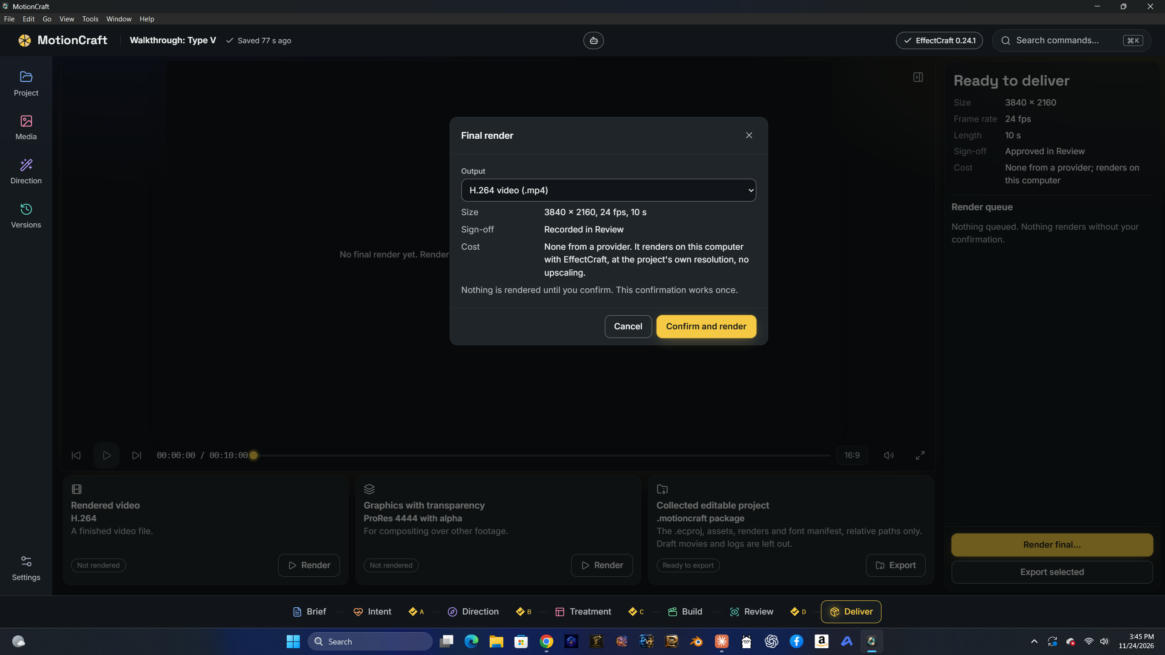
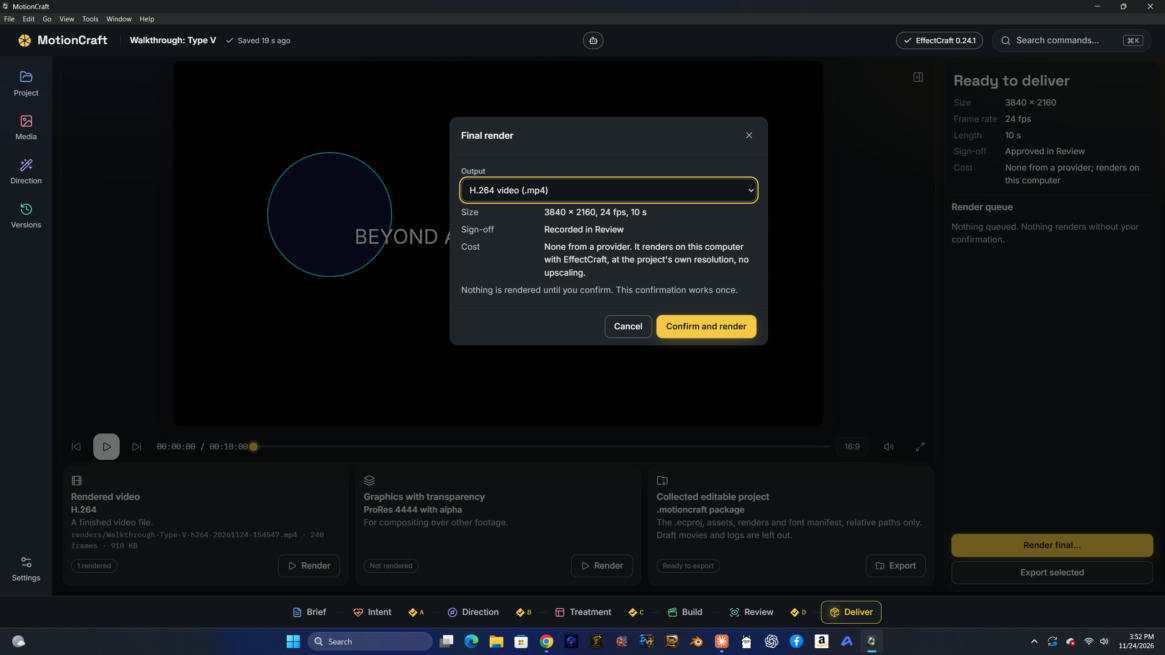
User guide: screenshots, recovery picture, docs link test

diff --git a/src/__tests__/docs.test.ts b/src/__tests__/docs.test.ts
@@ -1,0 +1,26 @@
+import { describe, expect, it } from "vitest";
+import { existsSync, readFileSync } from "node:fs";
+import { dirname, join, resolve } from "node:path";
+
+const root = resolve(__dirname, "../..");
+
+/** Every relative link and picture in these documents must point at a file that exists, so the guide cannot drift from the repository. */
+function links(file: string): { target: string; from: string }[] {
+  const text = readFileSync(join(root, file), "utf-8");
+  return [...text.matchAll(/\]\(([^)#\s]+)(?:#[^)]*)?\)/g)].map((m) => m[1]).filter((t) => !/^(https?:|mailto:)/.test(t)).map((t) => ({ target: t, from: file }));
+}
+
+describe("the documentation", () => {
+  for (const file of ["README.md", "docs/USER_GUIDE.md"]) {
+    it(`${file}: every relative link and picture exists`, () => {
+      const missing = links(file).filter((l) => !existsSync(resolve(root, dirname(l.from), l.target))).map((l) => l.target);
+      expect(missing).toEqual([]);
+    });
+  }
+
+  it("the user guide has a picture for every step and states what is not verified", () => {
+    const text = readFileSync(join(root, "docs/USER_GUIDE.md"), "utf-8");
+    expect((text.match(/!\[[^\]]*\]\(guide\/[^)]+\)/g) ?? []).length).toBeGreaterThanOrEqual(11);
+    expect(text).toMatch(/have not been run on a Mac/);
+  });
+});

diff --git a/docs/USER_GUIDE.md b/docs/USER_GUIDE.md
@@ -41,21 +41,21 @@ creates a revision, so nothing is lost.
 
 ### Step 1. Projects
 
-![The project list: each project shows a picture of the piece, its length and shape](guide/01-projects.png)
+![The project list: each project shows a picture of the piece, its length and shape](guide/01-projects.jpg)
 
 The first screen lists your projects. A card shows a picture from the piece (or a title card when it has none yet), its length and shape, and when
 it was last edited. Press **New project**.
 
 ### Step 2. New project
 
-![The New project dialog with name, aspect and size, resolution, frame rate and duration](guide/02-new-project.png)
+![The New project dialog with name, aspect and size, resolution, frame rate and duration](guide/02-new-project.jpg)
 
 Choose a name, the aspect ratio, the resolution (720p, Full HD or **UHD 4K**), the frame rate and the length. You can change size, length and frame
 rate on the Brief page until the first layer exists. Press **Enter** to create the project.
 
 ### Step 3. Brief: say what you want
 
-![The Brief page with a typed brief and the "Found in your brief" card](guide/03-brief-found.png)
+![The Brief page with a typed brief and the "Found in your brief" card](guide/03-brief-found.jpg)
 
 Write the brief, paste a script, or start with audio. If your text says "10 seconds, 16:9, 4K, 24 fps", or contains a **timed script table**, the
 **Found in your brief** card offers to use it: the length and shape, one scene per row, and the sound notes as markers on the timeline. Nothing is
@@ -71,7 +71,7 @@ Other things on this page:
 
 ### Step 4. Make it
 
-![The plan sheet: the intent, the scenes, the look, and one approval](guide/04-make-it-plan.png)
+![The plan sheet: the intent, the scenes, the look, and one approval](guide/04-make-it-plan.jpg)
 
 Press **Make it**. The Director reads your brief and drafts the intent. A look that fits what the piece is about is chosen, and every scene gets a
 plan taken from your script. You then see **one review sheet**. **Looks right, continue to Build** approves the intent, direction and treatment
@@ -81,7 +81,7 @@ together; **Edit first** takes you to the Intent page instead. A local model cos
 
 ### Step 5. Treatment: a picture for every scene
 
-![The Treatment page: a card for each scene with its picture, time and plan](guide/05-treatment.png)
+![The Treatment page: a card for each scene with its picture, time and plan](guide/05-treatment.jpg)
 
 Each scene is a card: a picture, its name and time range, and one line saying what happens. Three ways to fill a picture:
 
@@ -95,7 +95,7 @@ automatically. Words belong on text layers, where they stay editable.
 
 ### Step 6. Build: the composition
 
-![The Build page: a large preview, the scene strip and the timeline](guide/06-build.png)
+![The Build page: a large preview, the scene strip and the timeline](guide/06-build.jpg)
 
 Build is the studio. The large picture is the composition; under it, the **scene strip** and the **timeline**.
 
@@ -106,14 +106,14 @@ Build is the studio. The large picture is the composition; under it, the **scene
 3. **Click a scene** to move the playhead there. **Film strip** shows the scenes; **Edit** shows every layer as a bar you can drag to move or trim.
    Alt and the arrow keys nudge a layer. Approved layers stay put.
 
-![Edit view: every layer is a bar on the timeline, under the scene strip](guide/07-timeline-edit.png)
+![Edit view: every layer is a bar on the timeline, under the scene strip](guide/07-timeline-edit.jpg)
 
 **Sound.** Add music or narration on the Brief page or in the Audio panel. It is analysed by itself: you get the waveform, tempo and beats, and
 **Write markers to composition** puts the beats on the timeline. **Add audio to composition** makes renders include the sound.
 
 ### Step 7. Review: checks, notes, versions
 
-![Review: the technical findings, history and versions, and notes at the playhead](guide/08-review.png)
+![Review: the technical findings, history and versions, and notes at the playhead](guide/08-review.jpg)
 
 - **Run checks** runs the technical checks. Each ends as *Passed*, *Findings* or *Not checked, with the reason*; nothing unchecked is ever called
   a pass. Examples: text overlapping, text outside the safe area, low contrast, missing media, and **fonts the brief asks for that are not
@@ -125,15 +125,19 @@ Build is the studio. The large picture is the composition; under it, the **scene
 
 ### Step 8. Deliver: the finished piece
 
-![Deliver: the output cards, the render queue and the finished video](guide/09-deliver.png)
+![Deliver: the output cards, the render queue and the finished video](guide/09-deliver.jpg)
 
 Choose an output: **H.264 video**, **ProRes 4444 with alpha**, or the **collected editable project** (the `.ecproj`, assets, renders and font
 manifest, with relative paths). **Render** shows what will happen and what it costs (nothing from a provider; it renders on your computer) and waits
-for your confirmation. When it finishes the video plays on the page and you get **Show the projects folder** and **Open in EffectCraft**.
+for your confirmation.
+
+![The final render sheet: output, size, sign-off, cost, and one confirmation](guide/09a-render-confirm.jpg)
+
+When it finishes the video plays on the page and you get **Show the projects folder** and **Open in EffectCraft**.
 
 ### Settings
 
-![Settings: working mode, offline mode, engine, image and video providers, language model](guide/10-settings.png)
+![Settings: working mode, offline mode, engine, image and video providers, language model](guide/10-settings.jpg)
 
 - **Offline mode** blocks every cloud call.
 - **Engine** shows the EffectCraft that was found; **Browse** points to another.
@@ -143,7 +147,7 @@ for your confirmation. When it finishes the video plays on the page and you get 
 
 ### Command search
 
-![Command search: type to find any page or action](guide/11-command-palette.png)
+![Command search: type to find any page or action](guide/11-command-palette.jpg)
 
 Press **Ctrl+K** to find any page or action.
 
@@ -179,7 +183,7 @@ Press **Ctrl+K** to find any page or action.
 
 | You see | Why and what to do |
 |---|---|
-| **"MotionCraft closed unexpectedly"** | The last session did not end cleanly. Work is saved a second after each change; choose **Open** to continue. |
+| **"MotionCraft closed unexpectedly"** (below) | The last session did not end cleanly. Work is saved a second after each change; choose **Open** to continue. |
 | **Make it is greyed out** | It names the reason: no language model chosen, no brief yet, or the intent is approved (unlock it on the Intent page to start over). |
 | **Build buttons are greyed out** | The engine is not connected, or an EffectCraft window has the project open. Close that window. |
 | **"Draft ... Out of date"** on the preview | The composition changed since the draft. Press **Build preview**. |
@@ -188,6 +192,8 @@ Press **Ctrl+K** to find any page or action.
 | **Image providers off** | Turn them on in Settings, add a key, and the Make picture buttons light up. |
 | **Spending stopped** | The limit was reached. Raise it in Brief, Budget limit. |
 | **The window went blank** | A safety net now shows a message and a **Reload MotionCraft** button. Your project is saved. |
+
+![The recovery dialog after an unclean close: choose Open to continue where you were](guide/12-recovery.jpg)
 
 ## 6. Words used in the app
 
